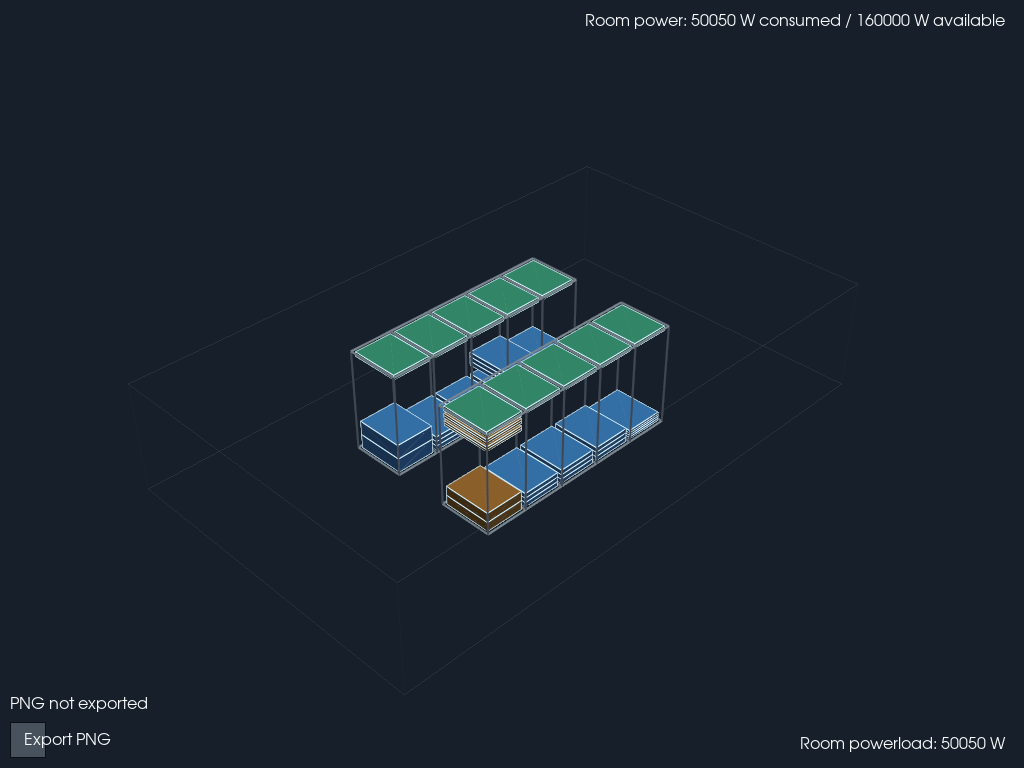
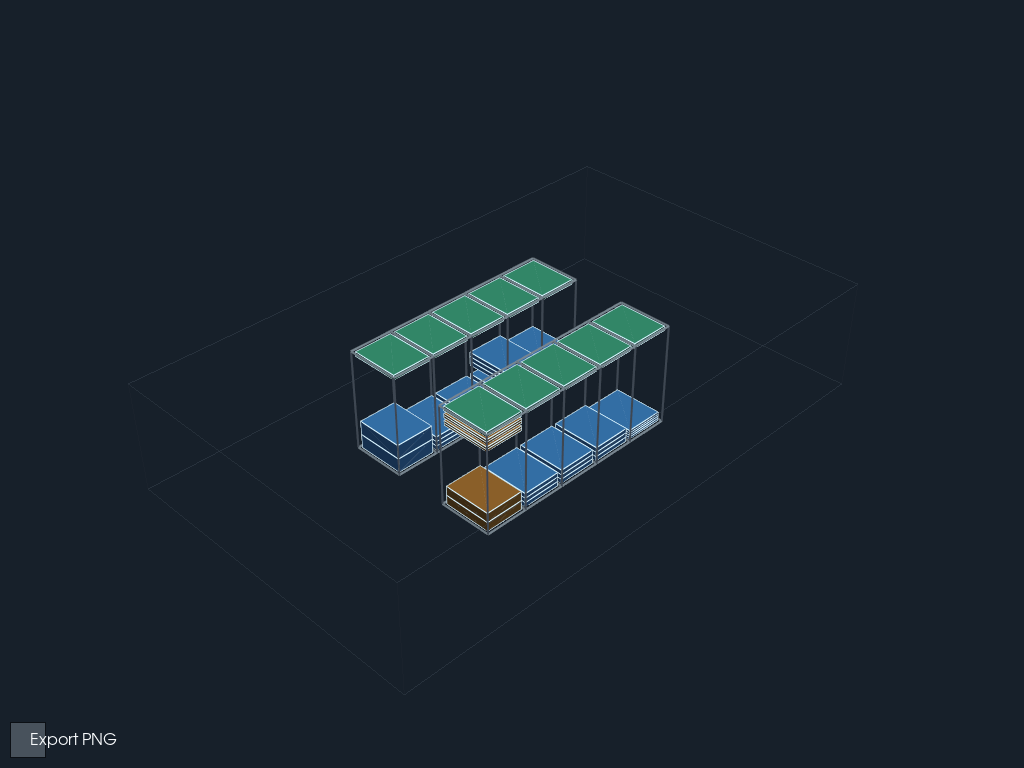
cleaned up display
removed a load of mouseover stuff that was displaying data in the pyvista window.  there must be a better way.

diff --git a/modules/display/display.py b/modules/display/display.py
@@ -9,7 +9,6 @@ from pathlib import Path
 
 import pandas as pd
 import pyvista as pv
-import vtk
 
 import config
 
@@ -71,12 +70,7 @@ def build_scene(
         raise ValueError(f"asset_data is missing required columns: {missing}")
 
     plotter = pv.Plotter(theme=config.create_pyvista_theme())
-    interactor = plotter.iren
-    if interactor is None:
-        raise RuntimeError("The PyVista plotter has no render-window interactor")
 
-    device_details = {}
-    device_racks = {}
     function_colors = _function_colors(asset_data)
     room_width = room_length = room_height = 0
     if room_layout_data:
@@ -92,24 +86,6 @@ def build_scene(
     )
     rack_spacing = config.RACK_WIDTH + config.RACK_GAP
     row_values = list(asset_data["ROW"].drop_duplicates())
-    powerloads = (
-        pd.to_numeric(asset_data["POWERLOAD"], errors="coerce").fillna(0)
-        if "POWERLOAD" in asset_data
-        else pd.Series(0, index=asset_data.index)
-    )
-    room_powerload = powerloads.sum()
-    power_data = room_layout_data.get("power", {}) if room_layout_data else {}
-    available_feed_power = []
-    if isinstance(power_data, Mapping):
-        for feed in ("a", "b"):
-            capacity = power_data.get(f"feed_{feed}_capacity")
-            if capacity is not None:
-                available_feed_power.append(_number(capacity, 0))
-    total_power_available = sum(available_feed_power) if available_feed_power else None
-    row_powerloads = {
-        row: powerloads.loc[asset_data["ROW"] == row].sum()
-        for row in row_values
-    }
     row_racks = {
         row: list(asset_data.loc[asset_data["ROW"] == row, "RACK"].drop_duplicates())
         for row in row_values
@@ -169,12 +145,6 @@ def build_scene(
         )
 
         rack_assets = asset_data[(asset_data["ROW"] == row) & (asset_data["RACK"] == rack)]
-        powerloads = (
-            rack_assets["POWERLOAD"]
-            if "POWERLOAD" in rack_assets
-            else pd.Series(0, index=rack_assets.index)
-        )
-        rack_powerload = pd.to_numeric(powerloads, errors="coerce").fillna(0).sum()
         for asset in rack_assets.itertuples(index=False):
             rack_unit = _number(getattr(asset, "RACK_UNIT"), 1.0)
             unit_size = _number(getattr(asset, "SIZE"), 1.0)
@@ -190,7 +160,7 @@ def build_scene(
                     center_z + height / 2,
                 )
             )
-            device_actor = plotter.add_mesh(
+            plotter.add_mesh(
                 device,
                 color=function_colors.get(
                     str(getattr(asset, "FUNCTION", "")).strip(),
@@ -199,100 +169,6 @@ def build_scene(
                 show_edges=config.SHOW_DEVICE_EDGES,
                 edge_color=config.DEVICE_EDGE_COLOR,
             )
-            device_details[device_actor] = "\n".join(
-                f"{column}: {value}"
-                for column, value in zip(asset_data.columns, asset)
-            )
-            device_racks[device_actor] = (row, rack, rack_powerload)
-
-    hover_label = plotter.add_text(
-        "",
-        position=config.HOVER_TEXT_POSITION,
-        font_size=config.HOVER_FONT_SIZE,
-        color=config.TEXT_COLOR,
-        name="asset_hover",
-        viewport=True,
-        render=False,
-    )
-    hover_label.GetTextProperty().SetVerticalJustificationToTop()
-    rack_power_label = plotter.add_text(
-        "",
-        position=(0.98, 0.10),
-        font_size=config.HOVER_FONT_SIZE,
-        color=config.TEXT_COLOR,
-        name="rack_powerload",
-        viewport=True,
-        render=False,
-    )
-    rack_power_label.GetTextProperty().SetJustificationToRight()
-    rack_power_label.GetTextProperty().SetVerticalJustificationToBottom()
-    room_power_label = plotter.add_text(
-        f"Room powerload: {room_powerload:g} W",
-        position=(0.98, 0.02),
-        font_size=config.HOVER_FONT_SIZE,
-        color=config.TEXT_COLOR,
-        name="room_powerload",
-        viewport=True,
-        render=False,
-    )
-    room_power_label.GetTextProperty().SetJustificationToRight()
-    room_power_label.GetTextProperty().SetVerticalJustificationToBottom()
-    available_power_text = (
-        f"{total_power_available:g} W available"
-        if total_power_available is not None
-        else "available power: N/A"
-    )
-    power_summary_label = plotter.add_text(
-        f"Room power: {room_powerload:g} W consumed / {available_power_text}",
-        position=(0.98, 0.98),
-        font_size=config.HOVER_FONT_SIZE,
-        color=config.TEXT_COLOR,
-        name="room_power_summary",
-        viewport=True,
-        render=False,
-    )
-    power_summary_label.GetTextProperty().SetJustificationToRight()
-    power_summary_label.GetTextProperty().SetVerticalJustificationToTop()
-    # pylint: disable=no-member
-    picker = vtk.vtkCellPicker()
-    # pylint: enable=no-member
-    picker.PickFromListOn()
-    for device_actor in device_details:
-        picker.AddPickList(device_actor)
-    last_details = None
-    last_rack_powerload = None
-    last_power_text = f"Room powerload: {room_powerload:g} W"
-
-    def update_hover(_caller: object, _event: str) -> None:
-        """Update hover label content while the mouse moves."""
-        nonlocal last_details, last_rack_powerload, last_power_text
-        x, y = interactor.get_event_position()
-        picker.Pick(x, y, 0, plotter.renderer)
-        picked_actor = picker.GetActor()
-        details = device_details.get(picked_actor)
-        rack_info = device_racks.get(picked_actor)
-        if details != last_details:
-            hover_label.SetInput(details or "")
-            last_details = details
-        rack_powerload = rack_info[2] if rack_info else None
-        if rack_powerload != last_rack_powerload:
-            text = (
-                f"Rack powerload: {rack_powerload:g} W"
-                if rack_powerload is not None
-                else ""
-            )
-            rack_power_label.SetInput(text)
-            last_rack_powerload = rack_powerload
-        power_text = (
-            f"Row powerload: {row_powerloads.get(rack_info[0], room_powerload):g} W"
-            if rack_info
-            else f"Room powerload: {room_powerload:g} W"
-        )
-        if power_text != last_power_text:
-            room_power_label.SetInput(power_text)
-            last_power_text = power_text
-
-    interactor.add_observer("MouseMoveEvent", update_hover)
 
     if config.GRID_SHOW_AXIS_LABELS:
         plotter.show_grid(
@@ -314,7 +190,7 @@ def _add_export_button(plotter: pv.Plotter) -> None:
     """Add a button that exports the current camera view as a PNG."""
     output_path = Path(config.OUTPUT_DIR) / "pyvista_view.png"
     export_status = plotter.add_text(
-        "PNG not exported",
+        "",
         position=(10, 55),
         font_size=config.HOVER_FONT_SIZE,
         color=config.TEXT_COLOR,
@@ -345,7 +221,7 @@ def _add_export_button(plotter: pv.Plotter) -> None:
     representation.PlaceWidget((10, 150, 10, 46, 0, 0))
     plotter.add_text(
         "Export PNG",
-        position=(24, 19),
+        position=(60, 19),
         font_size=config.HOVER_FONT_SIZE,
         color=config.TEXT_COLOR,
     )

diff --git a/tests/test_project_validation.py b/tests/test_project_validation.py
@@ -134,6 +134,22 @@ class ProjectValidationTests(unittest.TestCase):
         self.assertEqual(colors["Compute"], "#010203")
         self.assertNotEqual(colors["Unclassified"], "#040506")
 
+    def test_export_status_is_blank_until_png_is_exported(self):
+        from modules.display.display import _add_export_button
+
+        plotter = MagicMock()
+        with patch("modules.display.display.Path.mkdir"):
+            _add_export_button(plotter)
+
+        export_status = plotter.add_text.return_value
+        self.assertEqual(plotter.add_text.call_args_list[0].args[0], "")
+        self.assertEqual(plotter.add_text.call_args_list[1].kwargs["position"], (60, 19))
+        export_callback = plotter.add_checkbox_button_widget.call_args.args[0]
+        export_callback(False)
+
+        plotter.screenshot.assert_called_once()
+        export_status.SetInput.assert_called_once_with("PNG exported")
+
     def test_build_scene_accepts_valid_asset_dataframe(self):
         asset_data = pd.DataFrame(
             [
@@ -251,7 +267,7 @@ class ProjectValidationTests(unittest.TestCase):
         self.assertNotIn("Function color brightness", interface_source)
         self.assertNotIn('with dpg.collapsing_header(label="Display"', interface_source)
 
-    def test_build_scene_has_no_rack_or_axis_labels(self):
+    def test_build_scene_has_no_information_or_axis_labels(self):
         asset_data = pd.DataFrame(
             [
                 {"NAME": "ASSET-001", "ROW": 1, "RACK": "RACK-01", "RACK_UNIT": 1, "SIZE": 1},
@@ -264,91 +280,8 @@ class ProjectValidationTests(unittest.TestCase):
         with patch.object(pv.Plotter, "add_text") as mock_add_text, patch.object(pv.Plotter, "add_axes") as mock_add_axes:
             build_scene(asset_data)
 
-        self.assertEqual(mock_add_text.call_count, 4)
-        self.assertEqual(mock_add_text.call_args_list[0].kwargs["name"], "asset_hover")
-        self.assertEqual(mock_add_text.call_args_list[1].kwargs["name"], "rack_powerload")
-        self.assertEqual(mock_add_text.call_args_list[1].kwargs["position"], (0.98, 0.10))
-        self.assertEqual(mock_add_text.call_args_list[2].kwargs["name"], "room_powerload")
-        self.assertEqual(mock_add_text.call_args_list[2].kwargs["position"], (0.98, 0.02))
-        self.assertEqual(mock_add_text.call_args_list[3].kwargs["name"], "room_power_summary")
-        self.assertEqual(mock_add_text.call_args_list[3].kwargs["position"], (0.98, 0.98))
+        mock_add_text.assert_not_called()
         mock_add_axes.assert_not_called()
-
-    def test_build_scene_shows_asset_details_on_mouseover(self):
-        asset_data = pd.DataFrame(
-            [
-                {
-                    "NAME": "ASSET-001",
-                    "ROW": 1,
-                    "RACK": "RACK-01",
-                    "RACK_UNIT": 1,
-                    "SIZE": 1,
-                    "MODELNO": "MODEL-X",
-                    "POWERLOAD": 450,
-                },
-                {
-                    "NAME": "ASSET-002",
-                    "ROW": 1,
-                    "RACK": "RACK-01",
-                    "RACK_UNIT": 2,
-                    "SIZE": 1,
-                    "MODELNO": "MODEL-Y",
-                    "POWERLOAD": 850,
-                },
-                {
-                    "NAME": "ASSET-003",
-                    "ROW": 2,
-                    "RACK": "RACK-02",
-                    "RACK_UNIT": 1,
-                    "SIZE": 1,
-                    "MODELNO": "MODEL-Z",
-                    "POWERLOAD": 200,
-                },
-            ]
-        )
-
-        from modules.display.display import build_scene
-
-        room_layout = {
-            "power": {
-                "feed_a_voltage": 400,
-                "feed_a_capacity": 80000,
-                "feed_b_voltage": 400,
-                "feed_b_capacity": 80000,
-            }
-        }
-        plotter = build_scene(asset_data, room_layout)
-        try:
-            plotter.render()
-            room_power_label = plotter.actors["room_powerload"]
-            power_summary = plotter.actors["room_power_summary"]
-            self.assertEqual(
-                power_summary.GetInput(),
-                "Room power: 1500 W consumed / 160000 W available",
-            )
-            self.assertEqual(room_power_label.GetInput(), "Room powerload: 1500 W")
-            renderer = plotter.renderer
-            renderer.SetWorldPoint(0, 0, 0.01, 1)
-            renderer.WorldToDisplay()
-            x, y, _ = renderer.GetDisplayPoint()
-            plotter.iren.interactor.SetEventPosition(int(x), int(y))
-            plotter.iren.interactor.InvokeEvent("MouseMoveEvent")
-
-            hover_label = plotter.actors["asset_hover"]
-            hover_text = hover_label.GetInput()
-            rack_power_label = plotter.actors["rack_powerload"]
-            self.assertAlmostEqual(hover_label.position[0], 0.02)
-            self.assertAlmostEqual(hover_label.position[1], 0.98)
-            self.assertIn("NAME: ASSET-002", hover_text)
-            self.assertIn("MODELNO: MODEL-Y", hover_text)
-            self.assertEqual(rack_power_label.GetInput(), "Rack powerload: 1300 W")
-            self.assertEqual(room_power_label.GetInput(), "Row powerload: 1300 W")
-            self.assertEqual(
-                power_summary.GetInput(),
-                "Room power: 1500 W consumed / 160000 W available",
-            )
-        finally:
-            plotter.close()
 
     def test_export_button_saves_png_to_configured_output_directory(self):
         from modules.display.display import _add_export_button

diff --git a/modules/interface/interface.py b/modules/interface/interface.py
@@ -1,17 +1,28 @@
 """Dear PyGui interface for loading data and opening the 3D view."""
+from collections.abc import Mapping
 from pathlib import Path
 from tkinter import filedialog
+from typing import TypedDict
 
 import dearpygui.dearpygui as dpg
+import pandas as pd
 
 import config
 from modules.display import display_assets
 from modules.filemanager import asset_schema_validation_message, loadassets, loadroom
 
 
+class InterfaceState(TypedDict):
+	"""Loaded room and asset inputs used by the interface callbacks."""
+	room_layout: Mapping[str, object] | None
+	asset_path: str | None
+	model_path: str | None
+	asset_data: pd.DataFrame | None
+
+
 def run_interface() -> None:
 	"""Create and run the application interface."""
-	state = {
+	state: InterfaceState = {
 		"room_layout": None,
 		"asset_path": None,
 		"model_path": None,
@@ -94,7 +105,7 @@ def run_interface() -> None:
 		if setting == "OUTPUT_DIR":
 			if isinstance(value, str):
 				config.OUTPUT_DIR = Path(value)
-		elif setting in ("CAMERA_UP", "HOVER_TEXT_POSITION"):
+		elif setting == "CAMERA_UP":
 			if isinstance(value, (tuple, list)):
 				setattr(config, setting, tuple(float(component) for component in value))
 		else:
@@ -146,13 +157,18 @@ def run_interface() -> None:
 		)
 
 	def open_view(_sender: int, _app_data: object, _user_data: object = None) -> None:
+		asset_data = state["asset_data"]
+		room_layout = state["room_layout"]
+		if asset_data is None or room_layout is None:
+			return
 		try:
-			display_assets(state["asset_data"], state["room_layout"])
+			display_assets(asset_data, room_layout)
 		except Exception as error:
 			set_status(f"Could not open 3D view: {error}")
 
 	try:
 		dpg.create_context()
+		dpg.configure_app(manual_callback_management=True)
 		with dpg.window(label="ICT Digital Twin", tag="main_window", width=640, height=640):
 			dpg.add_text("Load the room layout and both data files")
 			dpg.add_separator()
@@ -225,6 +241,9 @@ def run_interface() -> None:
 		dpg.setup_dearpygui()
 		dpg.show_viewport()
 		dpg.set_primary_window("main_window", True)
-		dpg.start_dearpygui()
+		while dpg.is_dearpygui_running():
+			callbacks = dpg.get_callback_queue()
+			dpg.run_callbacks(callbacks)
+			dpg.render_dearpygui_frame()
 	finally:
 		dpg.destroy_context()

diff --git a/config.py b/config.py
@@ -38,7 +38,6 @@ DEVICE_EDGE_COLOR = "#d8f3ff"
 SHOW_DEVICE_EDGES = True
 TEXT_COLOR = "#f8fafc"
 HOVER_FONT_SIZE = 8
-HOVER_TEXT_POSITION = (0.02, 0.98)
 ROOM_RENDER_STYLE = "wireframe"
 RACK_RENDER_STYLE = "wireframe"
 GRID_SHOW_AXIS_LABELS = False
